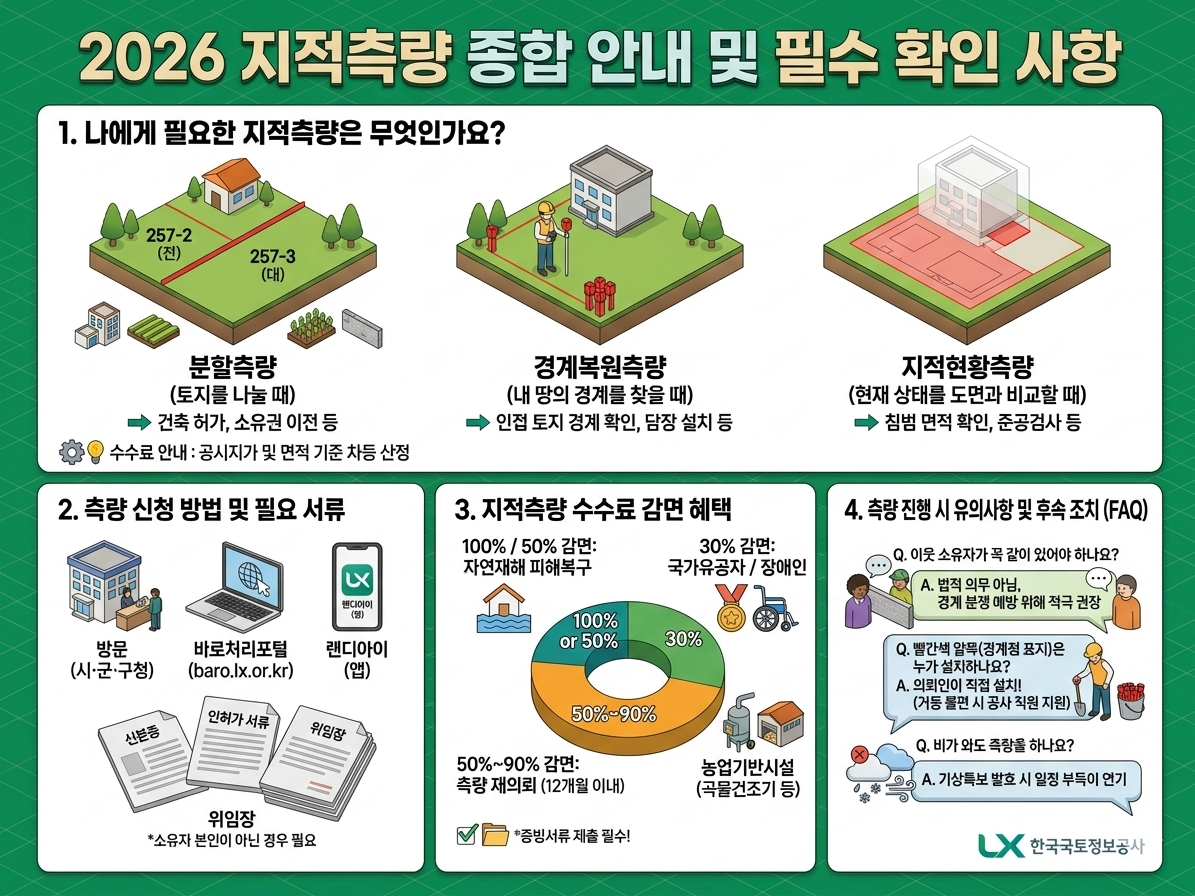
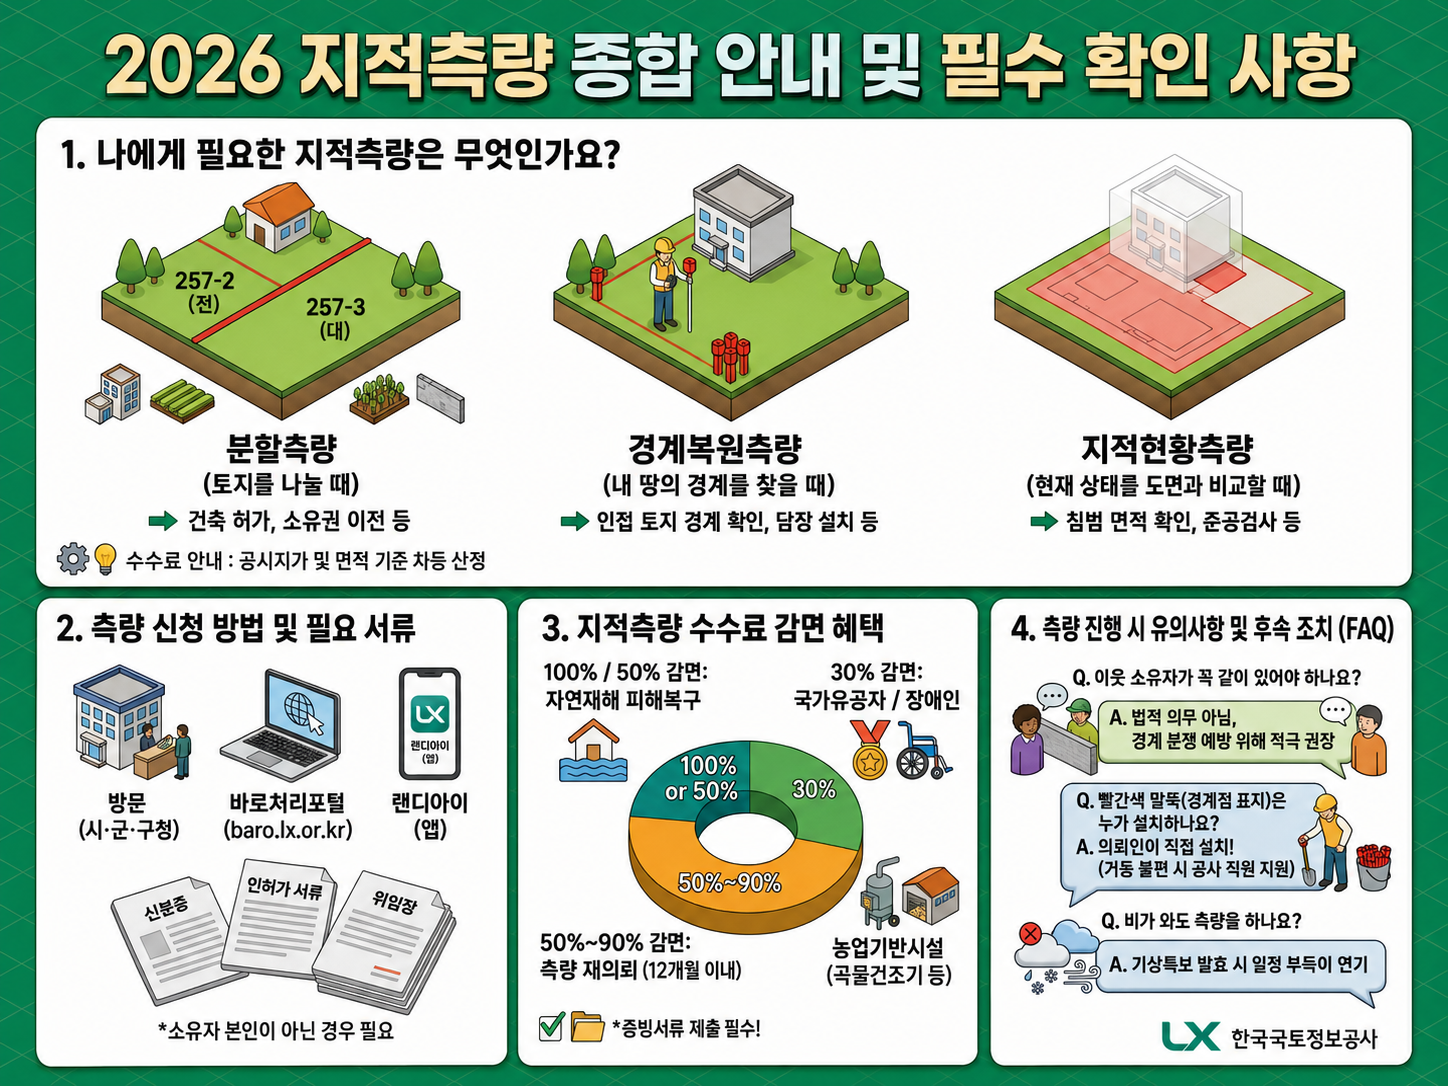
V2.3

diff --git a/styles.css b/styles.css
@@ -410,24 +410,25 @@ input {
 .guide-page-tabs {
   display: grid;
   grid-template-columns: repeat(3, minmax(0, 1fr));
-  gap: 8px;
-  margin-bottom: 18px;
-  padding: 6px;
+  gap: 10px;
+  margin-bottom: 20px;
+  padding: 8px;
   background: #edf4ef;
   border: 1px solid var(--line);
   border-radius: 8px;
 }
 
 .guide-page-tabs button {
-  min-height: 48px;
-  padding: 10px 12px;
+  min-height: 62px;
+  padding: 13px 14px;
   color: #31463f;
   background: transparent;
   border: 1px solid transparent;
   border-radius: 8px;
   cursor: pointer;
-  font-size: 0.95rem;
+  font-size: 1.12rem;
   font-weight: 900;
+  line-height: 1.25;
 }
 
 .guide-page-tabs button:hover,
@@ -1228,8 +1229,20 @@ input {
   font-size: 1.06rem;
 }
 
+.page-title--guide {
+  padding-bottom: 22px;
+}
+
+.page-title--guide h1 {
+  margin: 0;
+}
+
 .section--compact {
   padding-top: clamp(34px, 5vw, 56px);
+}
+
+.section--guide {
+  padding-top: 14px;
 }
 
 .source-card h2 {

diff --git a/checklist.html b/checklist.html
@@ -30,13 +30,11 @@
     </header>
 
     <main class="page-main">
-      <section class="page-title" aria-labelledby="page-title">
-        <p class="eyebrow">Guide Materials</p>
+      <section class="page-title page-title--guide" aria-labelledby="page-title">
         <h1 id="page-title">안내자료</h1>
-        <p>지적측량 사전 확인사항과 완료 후 후속 조치, 사전체크리스트를 항목별로 확인합니다.</p>
       </section>
 
-      <section class="section section--compact">
+      <section class="section section--compact section--guide">
         <div class="guide-page-tabs" role="tablist" aria-label="안내자료 항목">
           <button class="is-active" type="button" role="tab" aria-selected="true" aria-controls="guide-survey-checks" data-guide-page="survey-checks">
             지적측량 확인사항